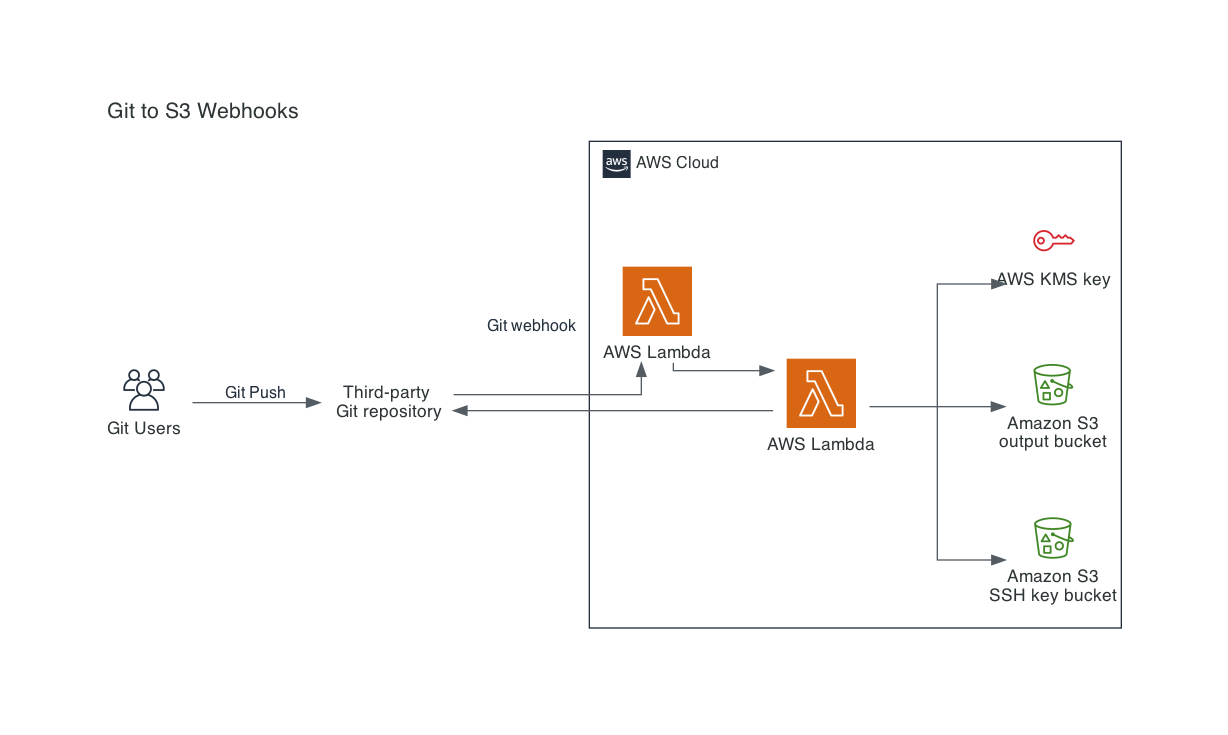
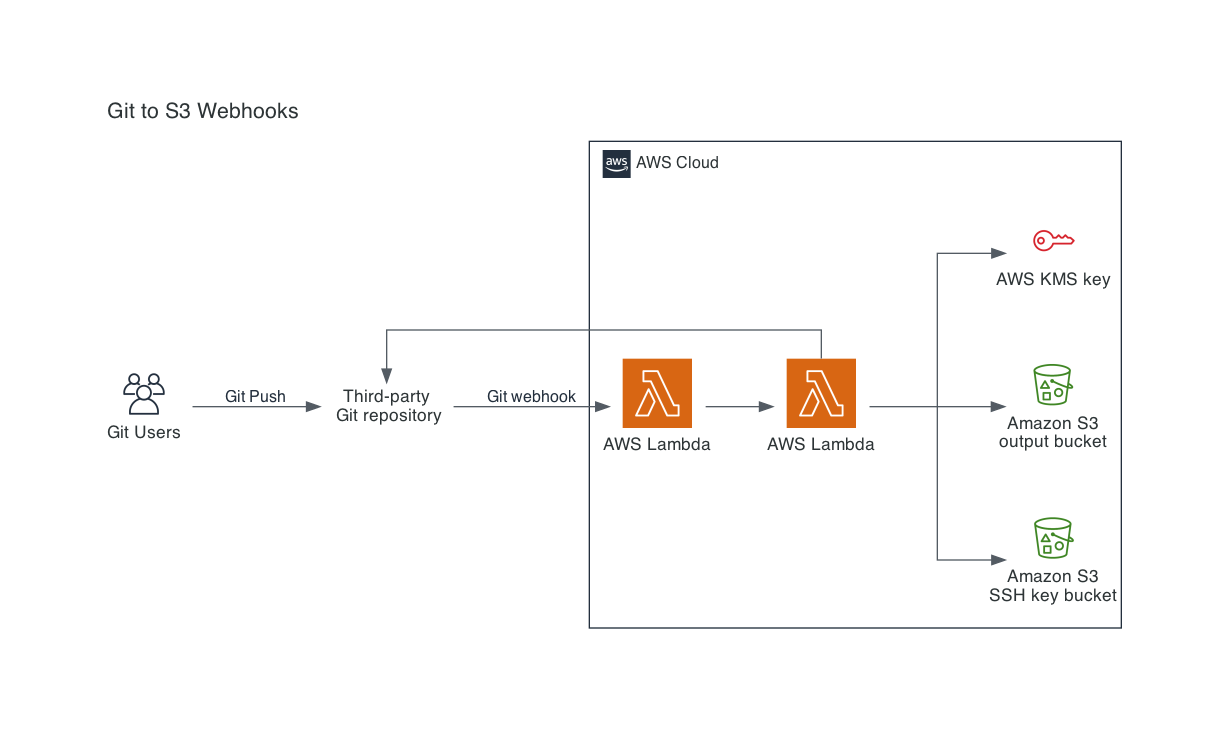
chore(@rediagram/gallery): fix diagram for api changing

diff --git a/examples/gallery/src/GitToS3WebHooks.rediagram.tsx b/examples/gallery/src/GitToS3WebHooks.rediagram.tsx
@@ -9,7 +9,7 @@ PNG(
         <Lambda name="Lambda 1" upstream={['Lambda 2']}>
           AWS Lambda
         </Lambda>
-        <Lambda name="Lambda 2" upstream={['SSH key', 'keys', 'output']} downstream={['Repository']}>
+        <Lambda name="Lambda 2" upstream={['SSH key', 'keys', 'output']}>
           AWS Lambda
         </Lambda>
         <S3 name="SSH key" type="Bucket with Objects">
@@ -23,7 +23,11 @@ PNG(
         </IAM>
       </AWS>
       <GeneralIcon name="Git Users" type="Users" upstream={[{ destination: 'Repository', description: 'Git Push' }]} />
-      <TextBox name="Repository" upstream={[{ destination: 'Lambda 1', description: 'Git webhook' }]}>
+      <TextBox
+        name="Repository"
+        upstream={[{ destination: 'Lambda 1', description: 'Git webhook' }]}
+        downstream={['Lambda 2']}
+      >
         Third-party\n Git repository
       </TextBox>
     </InvizAWS>

diff --git a/examples/gallery/src/ChefAutomateArchitectureOnAWS.rediagram.tsx b/examples/gallery/src/ChefAutomateArchitectureOnAWS.rediagram.tsx
@@ -10,10 +10,10 @@ PNG(
           <EC2 type="Instance" name="instance1" upstream={['instance2']}>
             Chef workstation \n (local Chef repo)
           </EC2>
-          <EC2 type="Instance" name="instance2" downstream={['instance3']}>
+          <EC2 type="Instance" name="instance2" upstream={[{ destination: 'instance3', position: 'backward' }]}>
             Chef node
           </EC2>
-          <EC2 type="Instance" name="instance3" downstream={['instance1']}>
+          <EC2 type="Instance" name="instance3" upstream={[{ destination: 'instance1', position: 'backward' }]}>
             Chef Automate
           </EC2>
         </VPC>
